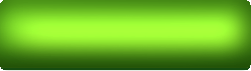
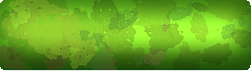
finished touches

diff --git a/game.js b/game.js
@@ -10,7 +10,7 @@ let score = document.querySelector('.child-4')
 
 let response = document.querySelector('.child-5')
 
-// let scoreBoard =document.getElementById("child-6").innerHTML
+
 
 //calling boxes
 
@@ -113,8 +113,7 @@ function computerPlay(){
 }
 // randomizer for computer
 
-
-const computerSelection = computerPlay()
+//put computer directly in playround to randomize
 
 
 
@@ -122,78 +121,78 @@ const computerSelection = computerPlay()
 
 
     function playRound(){ 
-        //parameters called in line 81 and 83
+
 
         response.innerHTML = 'Your move! earth wind or fire!'
-        //want to simply start in box 5, how to get the box to show up???
+
 
 console.log('ran')
-            // if ((userScore >= 0 && computerScore >= 0) || (userScore  < 10 || computerScore < 10)) {
-        //both scores start at zero, why not show up
+//test in console
+
         switch (playerSelection){ 
             case 'earth':
-                switch ( computerSelection){ 
+                switch ( computerPlay()){ 
 
                     case 'earth':  
-                    // score.innerHTML =`User: ${userScore} Groove Wizard:   ${computerScore}`  
+ 
                     return response.innerHTML  = "Earth V Earth, NO SCORE!" 
 
                     case 'wind':
                         computerScore++
-                        // score.innerHTML =`User: ${userScore} Groove Wizard:   ${computerScore}`         
-                    return response.innerHTML  = "Goove chose wind! You are hit!" 
+         
+                    return response.innerHTML  = "Goove chose wind! Groove is empowered" 
 
 
                     case 'fire':
                         userScore++
 
-                        // score.innerHTML =`User: ${userScore} Groove Wizard:   ${computerScore}`  
-                   return response.innerHTML  = "Groove chose fire! You are hit!" 
+  
+                   return response.innerHTML  = "Groove chose fire! You are empowered!" 
 
 
                 }
 
                 break
             case 'wind':
-                switch (computerSelection){ 
+                switch (computerPlay()){ 
                     case 'earth': 
-                    // score.innerHTML =`User: ${userScore} Groove Wizard:   ${computerScore}`  
-                    return response.innerHTML  = "Groove chose earth! You hit Yourself!" 
+  
+                    return response.innerHTML  = "Groove chose earth! No score!" 
 
                     
                     case 'wind':
                         computerScore++
-                        // score.innerHTML =`User: ${userScore} Groove Wizard:   ${computerScore}`     
-                     return response.innerHTML  = "Groove chose wind! They empower you!"    
+    
+                     return response.innerHTML  = "Groove chose wind! You empower Groove!"    
 
 
                     case 'fire':
                         userScore++
 
-                        // score.innerHTML =`User: ${userScore} Groove Wizard:   ${computerScore}` 
-                    return response.innerHTML  = "Groove chose fire! They extinguish Their flame!"
+
+                    return response.innerHTML  = "Groove chose fire! They Empower you!!"
 
 
                 }
             break
             case 'fire':
-                switch ( computerSelection){ 
+                switch ( computerPlay()){ 
                     case 'earth': 
 
-                    // score.innerHTML =`User: ${userScore } Groove Wizard:   ${computerScore}` 
-                    return response.innerHTML   = "Groove chose fire! They are not affected" 
+
+                    return response.innerHTML   = "Groove chose earth! Neither are affected" 
 
 
                     case 'wind':
                   userScore++    
-                    // score.innerHTML =`User: ${userScore} Groove Wizard:   ${computerScore}`     
-                    return response.innerHTML   = "Groove chose fire! Groove gets extinguished" 
+ 
+                    return response.innerHTML   = "Groove chose wind! You are Empowered!" 
 
 
                     case 'fire':
                         userScore++
                         computerScore++
-                        // score.innerHTML =`User: ${userScore} Groove Wizard:   ${computerScore}`         
+       
                     return response.innerHTML   = "Groove chose fire! You both are empowered!" 
 
 

diff --git a/style.css b/style.css
@@ -11,20 +11,25 @@
     grid-gap:18px 15px;
     border: solid black;
     /* row column for gap */
-    background-image:url('flat1.jpg');
+    background-image:url('Thewiz.gif');
    background-size: cover;
+   
 }
 /*SOlid to see the border!*/
 /* 1f to all be equal spaces */
 
 .child{ 
-
+    display: flex;
+    justify-content:center;
+    align-items: center;
     padding:25;
     font-size: 2em; 
     color:white;
     font-family: monospace;
     text-align: center;
     border-radius: 8px;
+    font-size: 30px;
+    
 }
 
 .child:hover{ 
@@ -66,7 +71,7 @@
 .child-4{ 
     border: solid green;
     grid-area: 3/7/6/8;
-    font-size: 20px;
+    font-size: 25px;
     background-image:url('score.png');
     background-size: cover;
 
@@ -79,20 +84,20 @@
     grid-area: 8/3/9/7;
     background-image:url('bottombar.png');
     background-size: cover;
+    font-size: 20px;
 
 }
 
 
 .child-6{ 
-    border: solid blue;
+
+    border: solid rgb(255, 255, 255);
     grid-area: 3/5/6/6;
-
-}
-
-
-
-.child-7{ 
-    border: solid pink;
+    background-image:url('buttonres.png');
+    background-size: cover;
 
 
 }
+
+
+

diff --git a/index.html b/index.html
@@ -17,8 +17,8 @@
         <div class= "child child-2">box2</div>
         <div class= "child child-3">box3</div>
         <div class= "child child-4">box4</div>
-        <div class= "child child-5">This is the start(game rules)</div>
-     <div class= "child child-6">Reset Game!</div> 
+        <div class= "child child-5">Defeat the Groove Master! Pick Earth, Wind, or Fire! First to 10 wins!</div>
+     <div class= "child child-6">Thanks for playing! Want to Play again? </div> 
         <!-- want to be a pop up box for instrutions and reset-->
 
 

diff --git a/README.md b/README.md
@@ -16,7 +16,7 @@ I wanted to see If I could make a simple turn based game. It uses the same forma
 
 4.Background image/gif: 
 
-(![Main bg](flat1.jpg))
+![thwiz](Thewiz.gif)
 
 5.Button assests: 
 ![](bottombar.png)
@@ -42,7 +42,7 @@ I wanted to see If I could make a simple turn based game. It uses the same forma
 
 ### CSS
 
-- This is where we use grid to organize the child divs. Call all the child-1-6 classes and give them a different color border to identify each
+- This is where we use grid to organize the child divs. Call all the child-1-6 classes and give them a different color border to identify each. in child class make display flex and justify content and align items to center.
 
 - In the parent class display: with the sizes, margins(to help center), height, and width. From he it was playing around with the grid-template-columns and grid-template-rows and grid-gap to meet the ideal wireframe:
 
@@ -90,7 +90,7 @@ This is the look witht the atempted background
 
 10. computerPlay is a randomizer for the computer to choose earth wind or fire strings.
 
-11. playround() is the actual switch case that plays whichever is selcted and stores it the score. You can play with which adds scores ( I tried to do decriment scores, but that made it more complicated).
+11. playround() is the actual switch case that plays whichever is selcted and stores it the score. You can play with which adds scores ( I tried to do decriment scores, but that made it more complicated).   PUT THE computerPlay() randomizer in the switch cases instead!
 
 12. startGame() function activates when the c1-3 buttons are clicked witht eh event listeners inside. startGame() is called again to activate.
 
